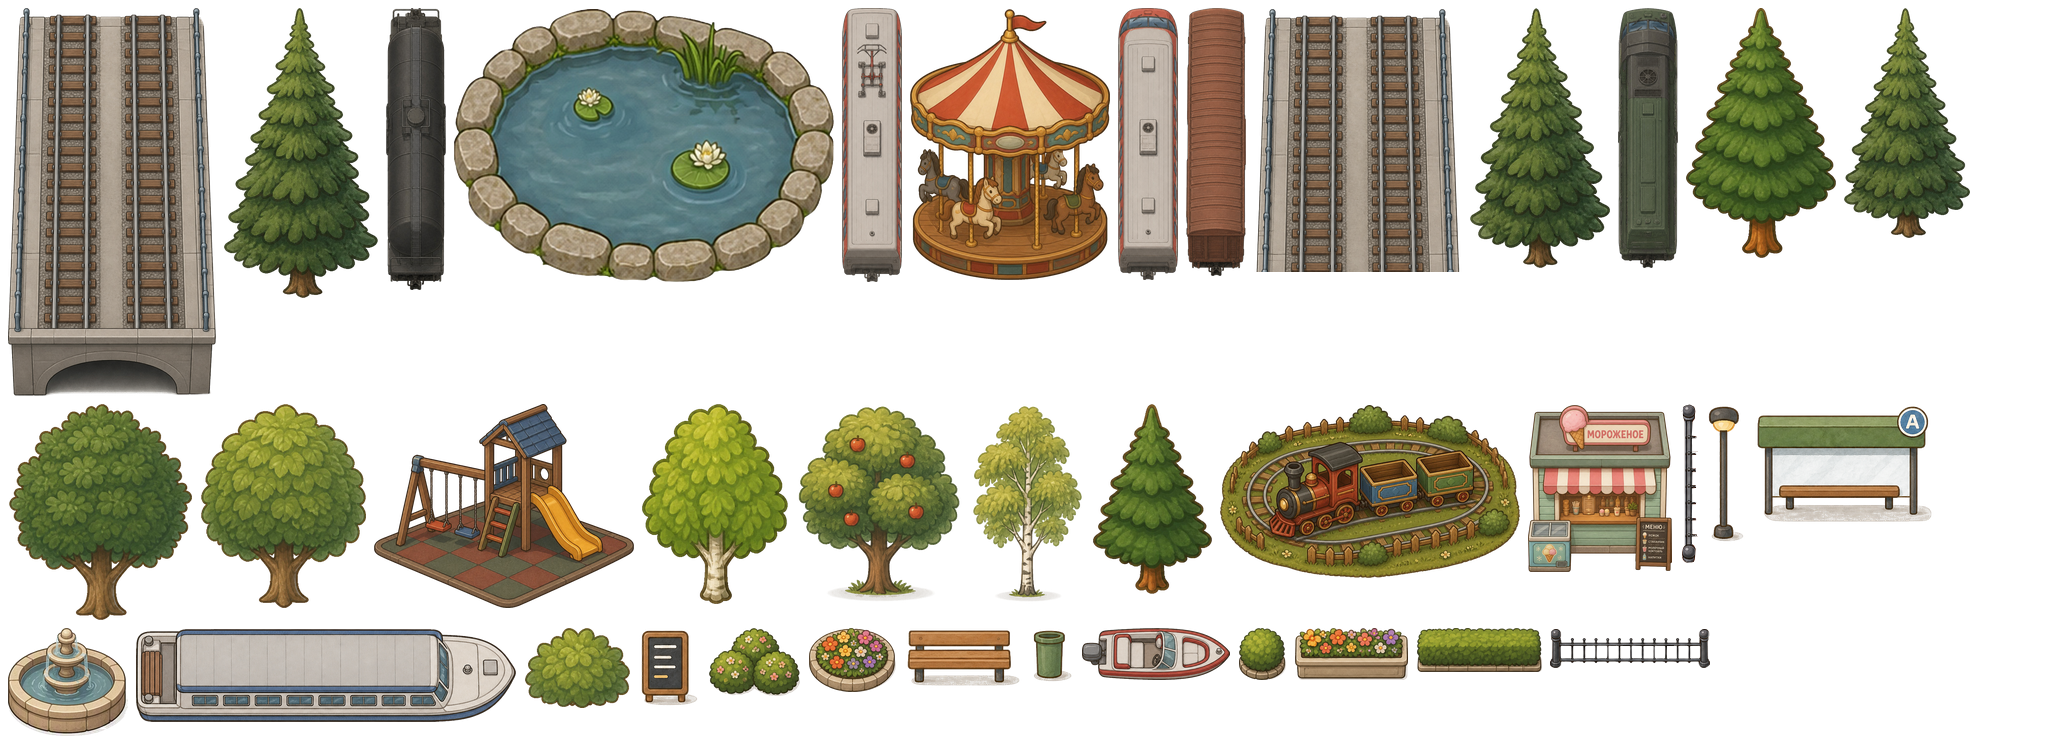
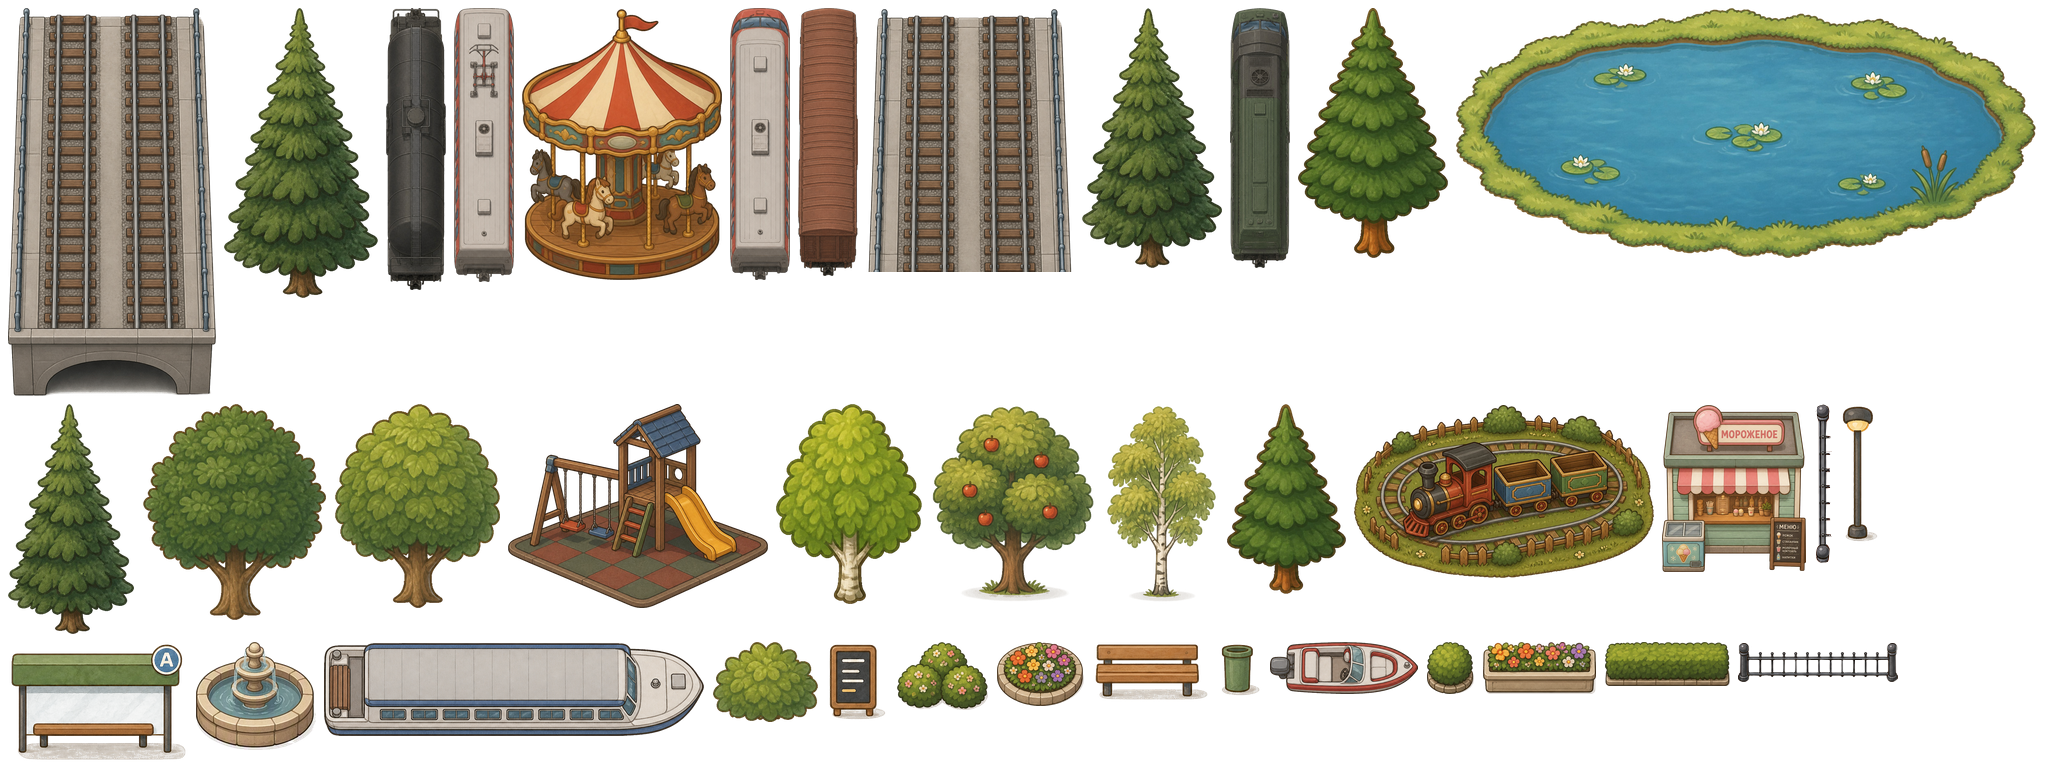
Логотип, пруд без камней, каталог и конструктор блюда в окне поверх игры
Claude-Session: https://claude.ai/code/session_01DHEiVcyPj9Qv6m6TjqeSZK

diff --git a/src/game/hud.ts b/src/game/hud.ts
@@ -283,6 +283,10 @@ export class Hud {
   private readonly panel = $('#panel');
   private readonly note = $('#street-note');
   private readonly district = $<HTMLButtonElement>('#district');
+  /** Окно поверх игры: каталог меню и конструктор блюда — чтобы не открывались внизу длинной панели */
+  private readonly modal = document.createElement('div');
+  private modalHtml = '';
+  private lastModal = '';
   private catalogOpen = false;
   /** Отчёт: за какой период и какой именно (null — последний) */
   private reportPeriod: 'day' | PeriodKind = 'day';
@@ -366,6 +370,21 @@ export class Hud {
       if (n >= 1 && n <= 3) this.setSpeed(SPEEDS[n]);
     });
     this.panel.addEventListener('click', (ev) => this.onClick(ev));
+    this.modal.className = 'modal-backdrop';
+    this.modal.hidden = true;
+    document.body.append(this.modal);
+    this.modal.addEventListener('click', (ev) => {
+      // Нажали мимо окна — закрыть
+      if (ev.target === this.modal) {
+        this.catalogOpen = false;
+        this.dish = null;
+        this.render(true);
+        return;
+      }
+      this.onClick(ev);
+    });
+    this.modal.addEventListener('change', (ev) => this.onChange(ev));
+    this.modal.addEventListener('focusout', () => setTimeout(() => this.render(), 0));
     this.panel.addEventListener('change', (ev) => this.onChange(ev));
     // Ушли со списка, ничего не выбрав, — догоняем отложенную пересборку
     this.panel.addEventListener('focusout', () => setTimeout(() => this.render(), 0));
@@ -957,6 +976,7 @@ export class Hud {
 
   private render(force = false): void {
     OWN = this.sim.cafe.own;
+    this.modalHtml = '';
     this.live = {};
     this.liveWidth = {};
     this.liveClass = {};
@@ -974,7 +994,16 @@ export class Hud {
     // Пока открыт выпадающий список или идёт ввод — не трогаем DOM: на телефоне пересборка
     // закрывает системное окно выбора времени. Пересоберём сразу после выбора (change) или ухода фокуса.
     const active = document.activeElement;
-    const editing = !force && active instanceof HTMLElement && this.panel.contains(active) && (active.tagName === 'SELECT' || active.tagName === 'INPUT');
+    const editing =
+      !force &&
+      active instanceof HTMLElement &&
+      (this.panel.contains(active) || this.modal.contains(active)) &&
+      (active.tagName === 'SELECT' || active.tagName === 'INPUT');
+    if (!editing && (force || this.modalHtml !== this.lastModal)) {
+      this.lastModal = this.modalHtml;
+      this.modal.innerHTML = this.modalHtml;
+      this.modal.hidden = !this.modalHtml;
+    }
     if (!editing && (force || html !== this.lastHtml)) {
       this.lastHtml = html;
       this.panel.innerHTML = html;
@@ -1297,12 +1326,12 @@ export class Hud {
     } else if (this.tab === 'menu') {
       body = tr`
       <div class="menu-head"><h4>Меню и цены</h4>
-        <button class="small" data-action="toggle-catalog">${this.catalogOpen ? L('Скрыть каталог') : L('+ Добавить')}</button></div>
+        <button class="small" data-action="toggle-catalog">${L('+ Добавить')}</button></div>
       <p class="hint-line">${cafe.menu.length} из ${MAX_MENU} позиций${full ? tr` — мест нет, сначала убери позицию` : ''} · нажми позицию, чтобы поменять цену</p>
       <p class="hint-line">${this.focusLine()}</p>
       <ul class="menu items">${items}</ul>
-      <div class="catalog-wrap">${catalog}</div>
       ${this.ownDishesBlock()}`;
+      if (this.catalogOpen) this.modalHtml = this.modalSheet(L('Каталог'), `<div class="catalog-wrap">${catalog}</div>`, 'toggle-catalog');
     } else if (this.tab === 'stock') {
       body = this.stockTab();
     } else if (this.tab === 'guests') {
@@ -1472,7 +1501,15 @@ export class Hud {
       const can = cafe.own.length < MAX_OWN;
       return `${head}${list}<button class="secondary" data-action="dish-open" ${can ? '' : 'disabled'}>${can ? L('Придумать блюдо') : tr`Своих блюд уже ${MAX_OWN} — забудь одно, чтобы придумать новое`}</button>`;
     }
-    return `${head}${list}${this.dishBuilder()}`;
+    this.modalHtml = this.modalSheet(L('Придумать блюдо'), this.dishBuilder(), 'dish-close');
+    return `${head}${list}`;
+  }
+
+  /** Окно поверх игры с заголовком и крестиком */
+  private modalSheet(title: string, body: string, close: string): string {
+    return `<div class="modal-sheet" role="dialog" aria-label="${title}">
+      <div class="modal-head"><b>${title}</b><button data-action="${close}" aria-label="${L('Закрыть')}">✕</button></div>
+      <div class="modal-body">${body}</div></div>`;
   }
 
   private dishBuilder(): string {
@@ -1544,14 +1581,14 @@ export class Hud {
 
   /** Игрок сам менял название в поле — тогда его не перезаписываем */
   private dishNamed(): boolean {
-    const input = this.panel.querySelector<HTMLInputElement>('input[data-action="dish-name"]');
+    const input = this.modal.querySelector<HTMLInputElement>('input[data-action="dish-name"]');
     if (!input || !this.dish?.base) return this.dish?.name != null;
     return input.value !== defaultDishName(dishId(this.dish.base, this.dish.addIns));
   }
 
   /** Запомнить, что набрано в поле названия, перед пересборкой панели */
   private keepDishName(): void {
-    const input = this.panel.querySelector<HTMLInputElement>('input[data-action="dish-name"]');
+    const input = this.modal.querySelector<HTMLInputElement>('input[data-action="dish-name"]');
     if (input && this.dish && this.dishNamed()) this.dish.name = input.value;
   }
 

diff --git a/src/game/atlasFrames.ts b/src/game/atlasFrames.ts
@@ -78,44 +78,44 @@ export const LIGHT_FRAMES: Record<string, [number, number, number, number]> = {
 };
 
 export const PROP_FRAMES: Record<string, [number, number, number, number]> = {
-  'prop-bench': [452, 314, 59, 30],
-  'prop-bin': [515, 314, 22, 28],
-  'prop-boat-motor': [541, 314, 74, 26],
-  'prop-boat-tram': [68, 314, 190, 47],
-  'prop-bus-stop': [877, 202, 90, 60],
-  'prop-bush': [619, 314, 24, 26],
-  'prop-bushes': [354, 314, 46, 34],
-  'prop-carousel': [455, 4, 100, 136],
-  'prop-fence-h': [775, 314, 80, 20],
-  'prop-fence-v': [840, 202, 9, 80],
-  'prop-flowerbed': [404, 314, 44, 32],
-  'prop-forest-1': [735, 4, 70, 130],
+  'prop-bench': [546, 321, 59, 30],
+  'prop-bin': [609, 321, 22, 28],
+  'prop-boat-motor': [635, 321, 74, 26],
+  'prop-boat-tram': [162, 321, 190, 47],
+  'prop-bus-stop': [4, 321, 90, 60],
+  'prop-bush': [713, 321, 24, 26],
+  'prop-bushes': [448, 321, 46, 34],
+  'prop-carousel': [261, 4, 100, 136],
+  'prop-fence-h': [869, 321, 80, 20],
+  'prop-fence-v': [907, 202, 9, 80],
+  'prop-flowerbed': [498, 321, 44, 32],
+  'prop-forest-1': [541, 4, 70, 130],
   'prop-forest-2': [112, 4, 77, 145],
-  'prop-forest-3': [922, 4, 63, 115],
-  'prop-forest-4': [843, 4, 75, 125],
-  'prop-forest-5': [546, 202, 60, 95],
-  'prop-forest-6': [321, 202, 73, 100],
-  'prop-forest-7': [4, 202, 92, 108],
-  'prop-forest-8': [100, 202, 83, 102],
-  'prop-forest-bush': [262, 314, 53, 40],
-  'prop-fountain': [4, 314, 60, 54],
-  'prop-freight-box': [593, 4, 30, 134],
-  'prop-freight-loco': [809, 4, 30, 130],
+  'prop-forest-3': [4, 202, 63, 115],
+  'prop-forest-4': [649, 4, 75, 125],
+  'prop-forest-5': [613, 202, 60, 95],
+  'prop-forest-6': [388, 202, 73, 100],
+  'prop-forest-7': [71, 202, 92, 108],
+  'prop-forest-8': [167, 202, 83, 102],
+  'prop-forest-bush': [356, 321, 53, 40],
+  'prop-fountain': [98, 321, 60, 54],
+  'prop-freight-box': [399, 4, 30, 134],
+  'prop-freight-loco': [615, 4, 30, 130],
   'prop-freight-tank': [193, 4, 30, 141],
-  'prop-hedge': [708, 314, 63, 22],
-  'prop-icecream': [764, 202, 72, 84],
-  'prop-kidtrain': [610, 202, 150, 87],
-  'prop-lamp': [853, 202, 20, 70],
-  'prop-menu-board': [319, 314, 31, 40],
-  'prop-planter': [647, 314, 57, 26],
-  'prop-playground': [187, 202, 130, 102],
-  'prop-pond': [227, 4, 190, 137],
+  'prop-hedge': [802, 321, 63, 22],
+  'prop-icecream': [831, 202, 72, 84],
+  'prop-kidtrain': [677, 202, 150, 87],
+  'prop-lamp': [920, 202, 20, 70],
+  'prop-menu-board': [413, 321, 31, 40],
+  'prop-planter': [741, 321, 57, 26],
+  'prop-playground': [254, 202, 130, 102],
+  'prop-pond': [728, 4, 290, 125],
   'prop-rail-bridge': [4, 4, 104, 194],
-  'prop-rail-deck': [627, 4, 104, 132],
-  'prop-train-car': [421, 4, 30, 137],
-  'prop-train-head': [559, 4, 30, 136],
-  'prop-tree-round': [398, 202, 83, 100],
-  'prop-tree-tall': [485, 202, 57, 100],
+  'prop-rail-deck': [433, 4, 104, 132],
+  'prop-train-car': [227, 4, 30, 137],
+  'prop-train-head': [365, 4, 30, 136],
+  'prop-tree-round': [465, 202, 83, 100],
+  'prop-tree-tall': [552, 202, 57, 100],
 };
 
 export const TEXTURE_FRAMES: Record<string, [number, number, number, number]> = {

diff --git a/src/style.css b/src/style.css
@@ -3174,3 +3174,73 @@ button.small.danger {
   -webkit-user-select: text;
   user-select: text;
 }
+
+/* Окно поверх игры: каталог меню и конструктор блюда. На телефоне — снизу, на компьютере — по центру */
+.modal-backdrop {
+  position: fixed;
+  inset: 0;
+  z-index: 9;
+  display: flex;
+  align-items: flex-end;
+  justify-content: center;
+  background: rgba(27, 35, 64, 0.45);
+}
+
+.modal-backdrop[hidden] {
+  display: none;
+}
+
+.modal-sheet {
+  display: flex;
+  flex-direction: column;
+  width: 100%;
+  max-width: 560px;
+  max-height: 88vh;
+  border-radius: 16px 16px 0 0;
+  background: var(--panel);
+  box-shadow: 0 -8px 24px rgba(0, 0, 0, 0.15);
+}
+
+.modal-head {
+  display: flex;
+  align-items: center;
+  justify-content: space-between;
+  padding: 14px 16px 10px;
+  border-bottom: 1px solid var(--line);
+}
+
+.modal-head b {
+  font-size: 17px;
+}
+
+.modal-head button {
+  border: 0;
+  background: none;
+  color: var(--muted);
+  font-size: 18px;
+  cursor: pointer;
+}
+
+.modal-body {
+  overflow-y: auto;
+  padding: 8px 16px calc(16px + env(safe-area-inset-bottom));
+  overscroll-behavior: contain;
+}
+
+@media (min-width: 900px) {
+  .modal-backdrop {
+    align-items: center;
+  }
+
+  .modal-sheet {
+    border-radius: 16px;
+    max-height: 80vh;
+  }
+}
+
+/* Логотип в шапке: знак и надпись */
+#brand img {
+  display: block;
+  height: 56px;
+  width: auto;
+}

diff --git a/src/main.ts b/src/main.ts
@@ -19,12 +19,21 @@ import { CHALLENGE, isChallenge, saveKeyFor } from './game/challenge';
 import { Drawer, isWide } from './game/drawer';
 import { sound } from './game/sound';
 import { initSoundPanel } from './game/soundPanel';
+import logoRu from './game/art/logo-ru.webp';
+import logoEn from './game/art/logo-en.webp';
+import { getLang } from './sim/i18n';
 import { gameReady, initPlatform, IS_PORTAL, onPlatformPause, PLATFORM, setPlaying } from './game/platform';
 
 // В Яндекс Играх своя статистика и нет Telegram: внешние скрипты не грузим
 if (!IS_PORTAL) {
   initMetrika();
   void initTelegram();
+}
+// Логотип в шапке (на компьютере): знак и надпись на языке игры
+{
+  const brand = document.querySelector('#brand');
+  const en = getLang() === 'en';
+  if (brand) brand.innerHTML = `<img src="${en ? logoEn : logoRu}" alt="${en ? 'Business Town' : 'Город дела'}" height="56" />`;
 }
 // Площадка (Яндекс, ВКонтакте, CrazyGames): SDK и облачное сохранение — до загрузки игры (на сайте — сразу)
 await initPlatform();

diff --git a/src/i18n/en.ts b/src/i18n/en.ts
@@ -376,6 +376,7 @@ export const EN: Record<string, string> = {
  "Заказ: {0}": "Order: {0}",
  "Закрыто": "Closed",
  "Закрыто до {0}": "Closed until {0}",
+ "Закрыть": "Close",
  "Закупка": "Supplies",
  "Закупка продуктов": "Supplies",
  "Зал": "Hall",
@@ -410,6 +411,7 @@ export const EN: Record<string, string> = {
  "Картина": "Painting",
  "Касса в минусе {0}-й день. Если на {1}-й день не выйти в плюс — банкротство.": "Cash has been negative for {0} days. If it's not positive by day {1} — bankruptcy.",
  "Касса в минусе. Если к концу дня не выйти в плюс, пойдёт отсчёт: {0} дня подряд — банкротство.": "Cash is negative. If it's not positive by the end of the day, a countdown starts: {0} days in a row — bankruptcy.",
+ "Каталог": "Catalogue",
  "Кафе": "Café",
  "Кафе ещё не открыто": "The café isn't open yet",
  "Кафе ещё не открыто. Зайти хотели {0} раз": "The café isn't open yet. People wanted to come in {0} times",

diff --git a/src/game/StreetScene.ts b/src/game/StreetScene.ts
@@ -222,8 +222,6 @@ const PROPS: [string, number, number][] = [
   ['prop-tree-tall', 760, 250],
   ['prop-tree-round', 990, 250],
   ['prop-tree-round', 1290, 250],
-  ['prop-tree-tall', 800, 400],
-  ['prop-tree-tall', 1150, 575],
   ['prop-tree-round', 810, 570],
   ['prop-tree-tall', 1290, 580],
   ['prop-tree-tall', 1400, 580],
@@ -235,7 +233,7 @@ const PROPS: [string, number, number][] = [
   ['prop-tree-round', 1200, 800],
   ['prop-tree-tall', 1320, 800],
   ['prop-playground', 1110, 240],
-  ['prop-carousel', 880, 470],
+  ['prop-carousel', 835, 445],
   ['prop-kidtrain', 1260, 480],
   ['prop-icecream', 1110, 700],
   ['prop-bench', 1030, 565],
@@ -263,7 +261,7 @@ const PROPS: [string, number, number][] = [
   ['prop-tree-round', 980, 1540],
   ['prop-tree-tall', 1180, 1545],
   // Пруд в большом сквере
-  ['prop-pond', 1030, 525],
+  ['prop-pond', 1033, 548],
   ...parkFence(),
 ];
 
